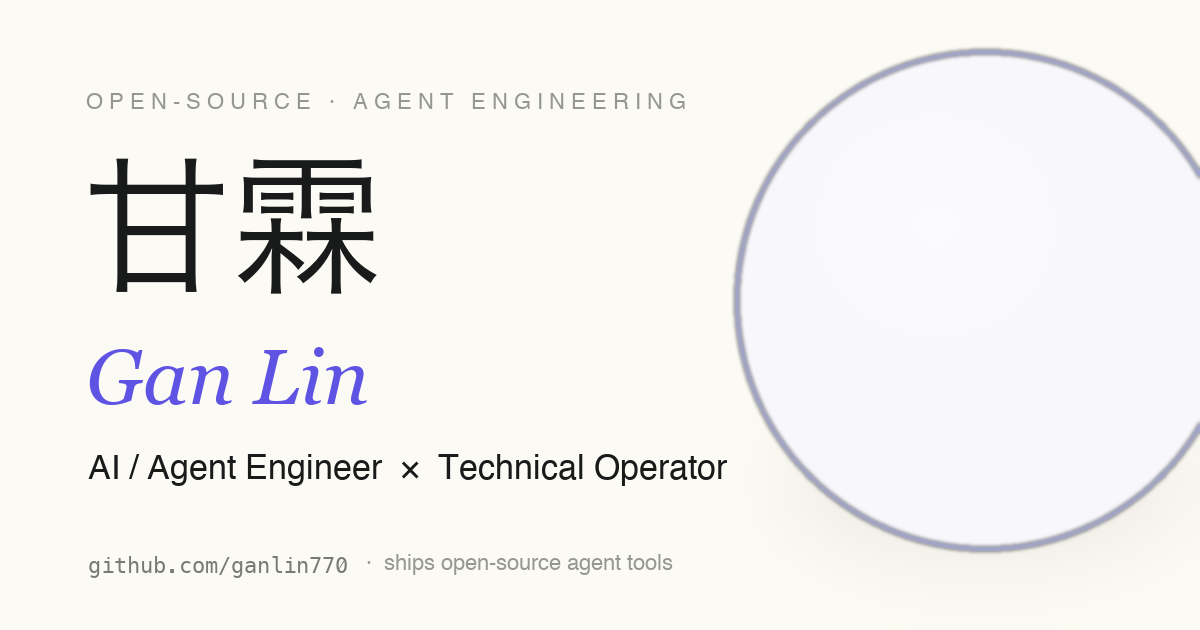
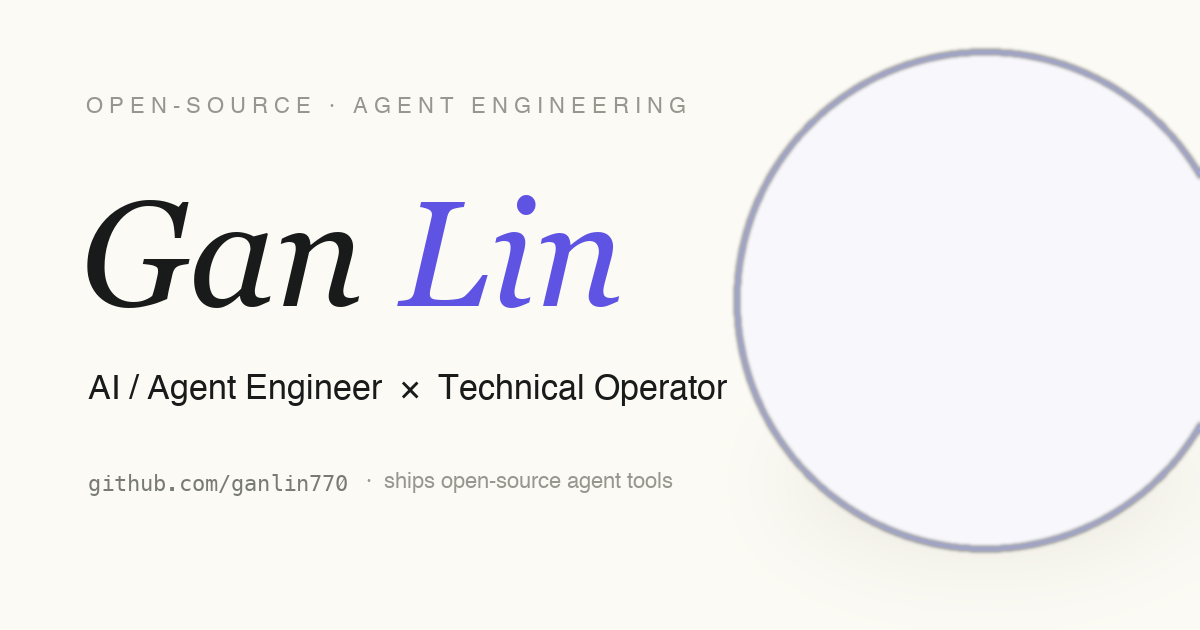
feat: English-only + polish pass
Per request: removed ALL Chinese (bilingual .cn sub-lines, hero CJK name,
section-label accents, footer/nav brand, title/meta/JSON-LD), site is now
fully English. Hero now leads with a large 'Gan Lin' Fraunces serif (retuned
size/tracking/line-height for a single wordmark). Regenerated the OG card
English-only.

Polish (from an audit workflow, applied + verified in-browser): tightened hero
sub + about lead + contact copy for an international dev audience; 'Browse the
code ↗' verb CTA replacing the bare URL; inline <code> chip; SVG-banner/card
seam fix (translucent, hover-tracked, hairline); banner labels -> Space Grotesk;
per-cell capability index accents; de-Chinglished featured-card copy. Light
theme + shader perf budget + 6 SVG diagrams + all github.com/ganlin770 links +
a11y/SEO preserved. Real résumé facts kept.

diff --git a/index.html b/index.html
@@ -3,8 +3,8 @@
 <head>
 <meta charset="UTF-8" />
 <meta name="viewport" content="width=device-width, initial-scale=1.0, viewport-fit=cover" />
-<title>甘霖 · Gan Lin — AI / Agent Engineer × Technical Operator</title>
-<meta name="description" content="甘霖 (Gan Lin) — AI / Agent Engineer & technical operator. I ship open-source agent tools and turn them into content developers trust. LLM eval frameworks, MCP servers, fine-tuned tool routers, full-stack apps — all open-source & reproducible." />
+<title>Gan Lin — AI / Agent Engineer × Technical Operator</title>
+<meta name="description" content="Gan Lin — AI / Agent Engineer & technical operator. I ship open-source agent tools and turn them into content developers trust. LLM eval frameworks, MCP servers, fine-tuned tool routers, full-stack apps — all open-source & reproducible." />
 <meta name="author" content="Gan Lin" />
 <meta name="robots" content="index, follow, max-image-preview:large" />
 <meta name="theme-color" content="#fbfaf4" />
@@ -16,8 +16,8 @@
 
 <!-- Open Graph -->
 <meta property="og:type" content="profile" />
-<meta property="og:site_name" content="Gan Lin · 甘霖" />
-<meta property="og:title" content="甘霖 · Gan Lin — AI / Agent Engineer × Technical Operator" />
+<meta property="og:site_name" content="Gan Lin" />
+<meta property="og:title" content="Gan Lin — AI / Agent Engineer × Technical Operator" />
 <meta property="og:description" content="I ship open-source agent tools — and turn them into content developers trust. LLM eval frameworks, MCP servers, fine-tuned tool routers, full-stack apps. All open-source & reproducible." />
 <meta property="og:url" content="https://ganlin770.github.io/ganlin-site/" />
 <meta property="og:image" content="https://ganlin770.github.io/ganlin-site/og-card.png" />
@@ -25,13 +25,12 @@
 <meta property="og:image:height" content="630" />
 <meta property="og:image:alt" content="Gan Lin — AI / Agent Engineer × Technical Operator" />
 <meta property="og:locale" content="en_US" />
-<meta property="og:locale:alternate" content="zh_CN" />
 <meta property="profile:first_name" content="Lin" />
 <meta property="profile:last_name" content="Gan" />
 <meta property="profile:username" content="ganlin770" />
 <!-- Twitter Card -->
 <meta name="twitter:card" content="summary_large_image" />
-<meta name="twitter:title" content="甘霖 · Gan Lin — AI / Agent Engineer × Technical Operator" />
+<meta name="twitter:title" content="Gan Lin — AI / Agent Engineer × Technical Operator" />
 <meta name="twitter:description" content="I ship open-source agent tools — and turn them into content developers trust. All open-source & reproducible → github.com/ganlin770" />
 <meta name="twitter:image" content="https://ganlin770.github.io/ganlin-site/og-card.png" />
 <meta name="twitter:image:alt" content="Gan Lin — AI / Agent Engineer × Technical Operator" />
@@ -50,7 +49,6 @@
   "@type": "Person",
   "@id": "https://ganlin770.github.io/ganlin-site/#person",
   "name": "Gan Lin",
-  "alternateName": "甘霖",
   "url": "https://ganlin770.github.io/ganlin-site/",
   "jobTitle": "AI / Agent Engineer & Technical Operator",
   "email": "mailto:2379286964@qq.com",
@@ -213,16 +211,13 @@
   .hero .eyebrow{ font-family:"Space Grotesk",sans-serif; font-size:12px; letter-spacing:.42em; text-transform:uppercase;
     color:var(--label); display:flex; align-items:center; gap:14px; }
   .hero .eyebrow::before{ content:""; width:40px; height:1px; background:linear-gradient(90deg,var(--indigo),transparent); flex:none; }
-  .hero h1{ font-family:"Fraunces",serif; font-optical-sizing:auto; font-weight:400; line-height:.86;
-    font-size:clamp(72px, 14vw, 210px); letter-spacing:-.045em; margin:26px 0 6px; margin-left:-.03em; }
-  .hero h1 .cn{ display:block; font-family:"Fraunces","PingFang SC",serif; font-weight:400; color:var(--ink); letter-spacing:0; }
-  .hero h1 .en{ display:block; color:var(--ink);
-    font-style:normal; font-weight:400; font-size:.40em; letter-spacing:-.02em; margin-top:.06em; }
+  .hero h1{ font-family:"Fraunces",serif; font-optical-sizing:auto; font-weight:400; line-height:.94;
+    font-size:clamp(60px, 11vw, 150px); letter-spacing:-.02em; margin:24px 0 14px; margin-left:-.02em; }
+  .hero h1 .en{ color:var(--ink); font-style:normal; font-weight:400; }
   .hero .role{ font-family:"Space Grotesk",sans-serif; font-size:clamp(15px,2.1vw,22px); color:var(--ink);
     font-weight:400; margin-top:30px; letter-spacing:.01em; }
   .hero .role b{ font-weight:500; }
-  .hero .sub{ max-width:540px; color:var(--dim); font-size:clamp(14.5px,1.6vw,17px); margin-top:18px; }
-  .hero .sub .cn{ display:block; color:var(--faint); font-size:.92em; margin-top:8px; letter-spacing:0; }
+  .hero .sub{ max-width:46ch; color:var(--dim); font-size:clamp(15px,1.7vw,18px); line-height:1.62; margin-top:22px; }
   .hero .cta-row{ display:flex; gap:16px; margin-top:42px; flex-wrap:wrap; }
   .btn{ display:inline-flex; align-items:center; gap:10px; padding:14px 26px; border-radius:99px; font-size:14.5px;
     font-weight:500; transition:background .35s var(--ease-out), border-color .35s, box-shadow .35s, color .35s;
@@ -255,15 +250,14 @@
   .sec-num{ font-family:"Space Grotesk",sans-serif; font-size:12px; color:var(--label);
     letter-spacing:.32em; text-transform:uppercase; }
   .sec-title{ font-family:"Fraunces",serif; font-optical-sizing:auto; font-weight:400; font-size:clamp(34px,5.2vw,60px); line-height:1.02; letter-spacing:-.03em; color:var(--ink); }
-  .sec-title .cn{ font-family:"Fraunces","PingFang SC",serif; color:var(--faint); font-size:.4em; font-style:normal; margin-left:14px; letter-spacing:0; }
 
   /* ---------- about ---------- */
   .about-grid{ display:grid; grid-template-columns:1.55fr .9fr; gap:clamp(48px,7vw,96px); align-items:start; }
   .about-lead{ font-family:"Fraunces",serif; font-optical-sizing:auto; font-weight:300; font-size:clamp(22px,2.8vw,32px); line-height:1.4; letter-spacing:-.015em; color:var(--ink); max-width:24ch; }
   .about-lead .hl{ color:var(--indigo); -webkit-text-fill-color:var(--indigo); font-style:italic; }
-  .about-body{ color:var(--dim); font-size:15.5px; line-height:1.7; letter-spacing:.005em; max-width:66ch; }
+  .about-body{ color:var(--dim); font-size:16px; line-height:1.78; letter-spacing:.005em; max-width:62ch; }
   .about-body p{ margin-bottom:16px; }
-  .about-body .cn{ color:var(--faint); font-size:14.5px; }
+  .about-body p:last-child{ margin-bottom:0; }
   .stats{ display:grid; grid-template-columns:1fr 1fr; gap:1px; margin-top:14px; background:var(--line-2);
     border:1px solid var(--line-2); border-radius:16px; overflow:hidden; }
   .stat{ background:rgba(255,255,255,.5); padding:26px 22px; }
@@ -274,7 +268,7 @@
   .work-grid{ display:grid; grid-template-columns:repeat(2,1fr); gap:24px; }
   .card{ position:relative; border:1px solid var(--line); border-radius:20px; padding:30px 30px 26px;
     background:var(--glass); box-shadow:var(--card-sh); overflow:hidden; transition:transform .5s var(--ease-out), border-color .5s, background .5s, box-shadow .5s;
-    display:flex; flex-direction:column; min-height:230px; }
+    display:flex; flex-direction:column; min-height:200px; }
   .card::before{ content:""; position:absolute; inset:0; border-radius:20px; padding:1px; opacity:0; transition:opacity .5s;
     background:linear-gradient(130deg,var(--peri),var(--sky),transparent 60%);
     -webkit-mask:linear-gradient(#000 0 0) content-box,linear-gradient(#000 0 0); -webkit-mask-composite:xor; mask-composite:exclude; }
@@ -287,17 +281,19 @@
   .card .ct-name{ font-family:"Space Grotesk",sans-serif; font-size:19px; font-weight:500; color:var(--ink); margin:0; }
   .card .ct-link{ font-size:12px; color:var(--faint); display:inline-flex; gap:6px; align-items:center; transition:color .3s; }
   .card:hover .ct-link{ color:var(--indigo); }
-  .card .ct-desc{ color:var(--dim); font-size:14px; margin-top:14px; flex:1; }
-  .card .ct-desc .cn{ display:block; color:var(--faint); font-size:13px; margin-top:7px; }
+  .card .ct-desc{ color:var(--dim); font-size:14px; line-height:1.62; margin-top:14px; flex:1; }
   .card .ct-desc b{ color:var(--ink); font-weight:600; }
+  .ct-desc code, .about-body code{ font-family:"Space Grotesk",ui-monospace,monospace; font-size:.86em; color:var(--indigo); background:rgba(94,83,227,.07); border:1px solid rgba(94,83,227,.16); border-radius:6px; padding:.06em .42em; letter-spacing:0; white-space:nowrap; }
   .card .tags{ display:flex; flex-wrap:wrap; gap:7px; margin-top:18px; }
   .tag{ font-family:"Space Grotesk",sans-serif; font-size:11px; color:var(--dim); border:1px solid var(--line);
     border-radius:99px; padding:3px 11px; letter-spacing:.02em; }
   .card.feat{ grid-column:span 2; min-height:auto; }
   .card.feat .ct-name{ font-size:22px; }
   /* ---- static inline-SVG technical banners (no per-frame JS, no animated filters/blurs) ---- */
-  .card .vbanner{ display:block; width:calc(100% + 60px); margin:-30px -30px 20px; border-radius:20px 20px 0 0; background:#fbfaf4; height:auto; }
+  .card .vbanner{ display:block; width:calc(100% + 60px); margin:-30px -30px 20px; border-radius:20px 20px 0 0; background:var(--glass); border-bottom:1px solid var(--line-2); box-shadow:inset 0 -1px 0 rgba(255,255,255,.5); height:auto; transition:background .5s; }
+  .card:hover .vbanner{ background:var(--glass-2); }
   .card.feat .vbanner{ margin:-30px -30px 22px; }
+  .vbanner svg text{ font-family:"Space Grotesk",ui-monospace,monospace !important; }
   .varch{ display:block; width:100%; height:auto; margin:8px 0 28px; background:#fbfaf4; border-radius:16px; }
   @media (max-width:860px){ .varch{ margin:4px 0 20px; } }
   .repo-note{ text-align:center; margin-top:40px; color:var(--faint); font-size:13.5px; }
@@ -308,16 +304,15 @@
 
   /* ---------- capabilities (open cells + top-rules, rotating pastel index) ---------- */
   .cap-grid{ display:grid; grid-template-columns:repeat(3,1fr); gap:clamp(2px,1.2vw,22px); }
-  .cap{ background:rgba(255,255,255,.5); padding:30px 26px 28px; border-radius:14px;
+  .cap{ background:rgba(255,255,255,.5); padding:32px 28px 30px; border-radius:14px;
     border-top:2px solid var(--cap-acc,var(--line)); transition:background .4s, transform .4s var(--ease-out); }
   .cap:hover{ background:var(--bg-2); transform:translateY(-3px); }
   .cap:nth-child(1){ --cap-acc:var(--mint); } .cap:nth-child(2){ --cap-acc:var(--sky); }
   .cap:nth-child(3){ --cap-acc:var(--peri); } .cap:nth-child(4){ --cap-acc:var(--coral); }
   .cap:nth-child(5){ --cap-acc:var(--gold); } .cap:nth-child(6){ --cap-acc:var(--indigo); }
-  .cap .ci{ font-family:"Space Grotesk",sans-serif; font-size:12px; color:var(--indigo); letter-spacing:.1em; }
-  .cap .ch{ font-size:17px; font-weight:500; margin:10px 0 6px; color:var(--ink); }
-  .cap .ch .cn{ color:var(--faint); font-weight:400; font-size:13px; }
-  .cap .cl{ color:var(--dim); font-size:13.5px; line-height:1.6; }
+  .cap .ci{ font-family:"Space Grotesk",sans-serif; font-size:12px; color:var(--cap-acc,var(--indigo)); letter-spacing:.1em; filter:saturate(1.15) brightness(.82); }
+  .cap .ch{ font-size:17px; font-weight:500; margin:12px 0 8px; color:var(--ink); }
+  .cap .cl{ color:var(--dim); font-size:13.5px; line-height:1.65; }
   .cap .cl b{ color:var(--ink); font-weight:500; }
 
   /* ---------- contact ---------- */
@@ -413,7 +408,7 @@
 <a href="#main" class="skip">Skip to content</a>
 
 <div id="intro" aria-hidden="true">
-  <span class="iwords"><span class="il" lang="zh-CN">甘霖</span><span class="il">GAN LIN</span></span>
+  <span class="iwords"><span class="il">GAN LIN</span></span>
   <span class="irule"></span>
 </div>
 
@@ -422,7 +417,7 @@
 <div class="cur" aria-hidden="true"></div><div class="cur-d" aria-hidden="true"></div>
 
 <nav id="nav" aria-label="Primary">
-  <a href="#top" class="brand"><span class="dot" aria-hidden="true"></span><b>GAN&nbsp;LIN</b>&nbsp;<span lang="zh-CN">甘霖</span></a>
+  <a href="#top" class="brand"><span class="dot" aria-hidden="true"></span><b>GAN&nbsp;LIN</b></a>
   <div class="nav-links" id="navlinks">
     <a href="#about">About</a>
     <a href="#work">Work</a>
@@ -437,18 +432,14 @@
 <header class="hero" id="top">
   <div class="wrap">
     <div class="eyebrow reveal">Open-source · Agent Engineering · Content Growth</div>
-    <h1 class="reveal d1">
-      <span class="cn" lang="zh-CN">甘霖</span>
-      <span class="en">Gan&nbsp;Lin</span>
-    </h1>
+    <h1 class="reveal d1"><span class="en">Gan&nbsp;Lin</span></h1>
     <div class="role reveal d2"><b>AI / Agent Engineer</b> &nbsp;×&nbsp; <b>Technical Operator</b></div>
     <div class="sub reveal d2">
-      I ship open-source agent tools — and turn them into content developers trust. Everything's open-source and reproducible: click any project and run it.
-      <span class="cn" lang="zh-CN">既能做出开源 Agent 工具，又能把它们讲成开发者信得过的内容。所有作品开源、可点开复现。</span>
+      I ship open-source agent tools — and turn them into developer content people actually trust. Every project on this page is open-source: click it, read it, run it.
     </div>
     <div class="cta-row reveal d3">
       <a href="#work" class="btn solid mag">View Work <span class="arr" aria-hidden="true">↗</span></a>
-      <a href="https://github.com/ganlin770" target="_blank" rel="noopener" class="btn ghost mag">github.com/ganlin770<span class="vh">(opens in new tab)</span></a>
+      <a href="https://github.com/ganlin770" target="_blank" rel="noopener" class="btn ghost mag">Browse the code ↗<span class="vh">(opens in new tab)</span></a>
     </div>
   </div>
   <div class="scroll-hint" aria-hidden="true"><span>Scroll</span><span class="line"></span></div>
@@ -459,14 +450,13 @@
   <!-- ABOUT -->
   <section class="panel" id="about" aria-labelledby="about-h">
     <div class="wrap">
-      <div class="sec-head reveal"><span class="sec-num" aria-hidden="true">01</span><h2 id="about-h" class="sec-title">About<span class="cn" lang="zh-CN">关于</span></h2></div>
+      <div class="sec-head reveal"><span class="sec-num" aria-hidden="true">01</span><h2 id="about-h" class="sec-title">About</h2></div>
       <div class="reveal"><svg class="varch" viewBox="0 0 840 220" role="img" aria-labelledby="aa-t aa-d" xmlns="http://www.w3.org/2000/svg" preserveAspectRatio="xMidYMid meet"><title id="aa-t">Engineered agent loop architecture</title><desc id="aa-d">An agent loop: a tool call is validated; on success it returns, on failure it routes to an auto-repair retry that loops back, and after exhausted retries it falls back to a frontier model. Every step writes to a JSONL log and monitoring sink.</desc><rect x="0.75" y="0.75" width="838.5" height="218.5" rx="16" fill="#fbfaf4" stroke="#191b1b" stroke-opacity=".12"/><line x1="28" y1="40" x2="812" y2="40" stroke="#191b1b" stroke-opacity=".10"/><g font-family="'Space Grotesk',ui-monospace,monospace" fill="#767972"><text x="28" y="30" font-size="11.5" letter-spacing="2">ENGINEERED AGENT LOOP</text><text x="812" y="30" font-size="10.5" text-anchor="end" letter-spacing="1.5">validate · repair · fallback · log</text></g><g font-family="'Space Grotesk',monospace"><g transform="translate(28 78)"><rect x="0.75" y="0.75" width="118.5" height="48.5" rx="11" fill="#afb6ff" fill-opacity=".14" stroke="#5e53e3" stroke-opacity=".55" stroke-width="1.5"/><text x="60" y="22" text-anchor="middle" font-size="12" fill="#191b1b" font-weight="600">tool call</text><text x="60" y="37" text-anchor="middle" font-size="8.5" fill="#5e53e3">agent action</text></g><g transform="translate(214 102)"><path d="M 0 0 L 42 -36 L 84 0 L 42 36 Z" fill="#8dcbff" fill-opacity=".14" stroke="#0077bc" stroke-opacity=".55" stroke-width="1.5"/><text x="42" y="-2" text-anchor="middle" font-size="11" fill="#191b1b" font-weight="600">validate</text><text x="42" y="11" text-anchor="middle" font-size="8" fill="#0077bc">output ok?</text></g><g transform="translate(360 78)"><rect x="0.75" y="0.75" width="118.5" height="48.5" rx="11" fill="#80daac" fill-opacity=".16" stroke="#00784a" stroke-opacity=".55" stroke-width="1.5"/><text x="60" y="22" text-anchor="middle" font-size="12" fill="#191b1b" font-weight="600">return ✓</text><text x="60" y="37" text-anchor="middle" font-size="8.5" fill="#00784a">validated result</text></g><g transform="translate(360 150)"><rect x="0.75" y="0.75" width="118.5" height="44.5" rx="11" fill="#ebc669" fill-opacity=".20" stroke="#191b1b" stroke-opacity=".4" stroke-width="1.5"/><text x="60" y="20" text-anchor="middle" font-size="11" fill="#191b1b" font-weight="600">repair-retry</text><text x="60" y="34" text-anchor="middle" font-size="8" fill="#5f625c">auto-fix · re-run</text></g><g transform="translate(560 150)"><rect x="0.75" y="0.75" width="128.5" height="44.5" rx="11" fill="#ffa3a3" fill-opacity=".18" stroke="#c0434c" stroke-opacity=".5" stroke-width="1.5"/><text x="65" y="20" text-anchor="middle" font-size="11" fill="#191b1b" font-weight="600">frontier fallback</text><text x="65" y="34" text-anchor="middle" font-size="8" fill="#c0434c">retries exhausted</text></g><g transform="translate(560 60)"><rect x="0.75" y="0.75" width="250.5" height="64.5" rx="11" fill="#5e53e3" fill-opacity=".07" stroke="#5e53e3" stroke-opacity=".4" stroke-width="1.5"/><text x="16" y="24" font-size="11.5" fill="#191b1b" font-weight="600">JSONL log + monitor</text><g stroke="#5e53e3" stroke-opacity=".55" stroke-width="1.5"><line x1="16" y1="38" x2="150" y2="38"/><line x1="16" y1="46" x2="170" y2="46"/><line x1="16" y1="54" x2="120" y2="54"/></g><text x="234" y="56" text-anchor="end" font-size="8" fill="#5e53e3">every step →</text></g></g><g stroke="#191b1b" stroke-width="1.5" fill="none"><g stroke-opacity=".45"><path d="M 148 102 H 212"/><path d="M 206 97 L 212 102 L 206 107"/></g><g stroke-opacity=".45"><path d="M 298 96 C 330 90 332 102 358 102"/><path d="M 352 97 L 358 102 L 352 107"/></g><g stroke-opacity=".45"><path d="M 298 122 C 330 134 332 172 358 172"/><path d="M 352 167 L 358 172 L 352 177"/></g><g stroke="#ebc669" stroke-opacity=".8"><path d="M 360 188 C 200 210 70 196 70 132"/><path d="M 65 138 L 70 131 L 75 138"/></g><g stroke-opacity=".45"><path d="M 480 172 H 558"/><path d="M 552 167 L 558 172 L 552 177"/></g><g stroke-opacity=".3" stroke-dasharray="3 4"><path d="M 624 148 C 624 110 540 104 480 102"/><path d="M 486 97 L 480 102 L 486 107"/></g></g><g font-family="'Space Grotesk',monospace" font-size="8.5"><text x="322" y="88" fill="#00784a">pass</text><text x="318" y="150" fill="#c0434c">fail</text><text x="150" y="160" fill="#ebc669">retry loop</text></g><g stroke="#5e53e3" stroke-opacity=".22" stroke-width="1.2" stroke-dasharray="2 4" fill="none"><path d="M 88 78 V 60 H 560"/><path d="M 419 78 V 70"/><path d="M 419 150 V 132 H 560"/><path d="M 625 150 V 126"/></g></svg></div>
       <div class="about-grid">
         <div>
-          <p class="about-lead reveal">A 2026 graduate, self-taught into AI engineering — building the rare overlap of <span class="hl">shipping agent tools</span> and <span class="hl">growing the audience</span> that uses them.</p>
-          <div class="about-body" style="margin-top:30px;">
+          <p class="about-lead reveal">Self-taught AI engineer, class of 2026 — working the rare seam between <span class="hl">shipping agent tools</span> and <span class="hl">building the developer audience</span> around them.</p>
+          <div class="about-body" style="margin-top:34px;">
             <p class="reveal d1">I write LLM eval frameworks from scratch (rule × LLM-as-judge, CI gates, JSONL audit), fine-tune small models into tool-calling routers with PEFT/TRL, and build full-stack apps with Claude Code, Cursor &amp; Codex — then run English dev content across TikTok / X / IG. Because I ship the tools myself, the developer content I make actually holds technical weight.</p>
-            <p class="reveal d2"><span class="cn" lang="zh-CN">懂代码的技术型运营 × 能造工具的 Agent 工程师。从零写 LLM 评测框架、把 0.5B 小模型 LoRA 调成工具路由器、用 AI 编程做全栈并部署上线；同时运营海外英文号。最大的差异化：同一个人既造工具，又能把工具讲成开发者信得过的内容。</span></p>
           </div>
         </div>
         <div class="reveal d1">
@@ -474,23 +464,23 @@
             <div class="stat"><div class="n">70+</div><div class="l">Claude Code Skills</div></div>
             <div class="stat"><div class="n">20+</div><div class="l">MCP Servers</div></div>
             <div class="stat"><div class="n">5</div><div class="l">Open-source projects</div></div>
-            <div class="stat"><div class="n">100%</div><div class="l" lang="zh-CN">开源可点开复现</div></div>
+            <div class="stat"><div class="n">100%</div><div class="l">Open-source &amp; reproducible</div></div>
           </div>
           <dl style="margin-top:24px;display:grid;grid-template-columns:auto 1fr;column-gap:18px;row-gap:14px;font-size:13.5px;line-height:1.5;">
             <dt style="font-family:'Space Grotesk',sans-serif;font-size:11px;letter-spacing:.16em;text-transform:uppercase;color:var(--label);padding-top:2px;">Focus</dt>
             <dd style="color:var(--dim);margin:0;">LLM eval &amp; reliability · Agent / MCP engineering · applied model fine-tuning (PEFT/LoRA) · full-stack &amp; deploy.
-              <span class="cn" lang="zh-CN" style="display:block;color:var(--faint);font-size:13px;margin-top:5px;">评测与可靠性 · Agent / MCP 工程 · 模型微调（应用层）· 全栈与部署</span></dd>
+              </dd>
 
             <dt style="font-family:'Space Grotesk',sans-serif;font-size:11px;letter-spacing:.16em;text-transform:uppercase;color:var(--label);padding-top:2px;">Stack</dt>
             <dd style="color:var(--dim);margin:0;">Python / FastAPI · Node / TypeScript · React / Next.js · Claude Code · Cursor · Codex · Vercel / Zeabur.</dd>
 
             <dt style="font-family:'Space Grotesk',sans-serif;font-size:11px;letter-spacing:.16em;text-transform:uppercase;color:var(--label);padding-top:2px;">Build</dt>
             <dd style="color:var(--dim);margin:0;"><b style="color:var(--ink);font-weight:500;">promptlab</b> · <b style="color:var(--ink);font-weight:500;">tool-smith</b> · <b style="color:var(--ink);font-weight:500;">thesis-generator</b> · <b style="color:var(--ink);font-weight:500;">matlab-viz-mcp</b> · <b style="color:var(--ink);font-weight:500;">paper-search-server</b> — from idea to production.
-              <span class="cn" lang="zh-CN" style="display:block;color:var(--faint);font-size:13px;margin-top:5px;">从想法到上线交付</span></dd>
+              </dd>
 
             <dt style="font-family:'Space Grotesk',sans-serif;font-size:11px;letter-spacing:.16em;text-transform:uppercase;color:var(--label);padding-top:2px;">Open</dt>
             <dd style="color:var(--dim);margin:0;">Everything open-source &amp; reproducible at <span style="color:var(--ink);">github.com/ganlin770</span>. English is a working language.
-              <span class="cn" lang="zh-CN" style="display:block;color:var(--faint);font-size:13px;margin-top:5px;">作品全部开源、可点开复现；英文为工作语言</span></dd>
+              </dd>
           </dl>
         </div>
       </div>
@@ -500,7 +490,7 @@
   <!-- WORK -->
   <section class="panel" id="work" aria-labelledby="work-h">
     <div class="wrap">
-      <div class="sec-head reveal"><span class="sec-num" aria-hidden="true">02</span><h2 id="work-h" class="sec-title">Selected Work<span class="cn" lang="zh-CN">精选作品</span></h2></div>
+      <div class="sec-head reveal"><span class="sec-num" aria-hidden="true">02</span><h2 id="work-h" class="sec-title">Selected Work</h2></div>
       <div class="work-grid">
 
         <a class="card reveal" href="https://github.com/ganlin770/promptlab" target="_blank" rel="noopener" aria-label="promptlab on GitHub, opens in new tab">
@@ -550,7 +540,7 @@
 </svg></div>
           <div class="ct-top"><h3 class="ct-name">promptlab</h3><span class="ct-link"><span aria-hidden="true">GitHub ↗</span></span></div>
           <div class="ct-desc">From-scratch LLM eval framework — rule × LLM-as-judge engine, HTML reports + JSONL audit, wired into a CI gate (<code>--min-pass-rate</code>) for regression control.
-            <span class="cn" lang="zh-CN">把「评测」当一等公民：用可复现指标证明 agent 行为，离线 mock 可跑、pytest 覆盖。</span></div>
+            </div>
           <div class="tags"><span class="tag">Python</span><span class="tag">LLM-as-judge</span><span class="tag">CI gate</span><span class="tag">eval</span></div>
         </a>
 
@@ -602,7 +592,7 @@
 </svg></div>
           <div class="ct-top"><h3 class="ct-name">tool-smith</h3><span class="ct-link"><span aria-hidden="true">GitHub ↗</span></span></div>
           <div class="ct-desc">Fine-tuned Qwen2.5-0.5B into a tool-calling router (PEFT + TRL, LoRA/SFT) — <b>fully-correct tool calls 4.1% → 74.2%, hard cases 0 → 76.7%</b> on a self-built base-vs-tuned eval. Wrapped in an engineered agent loop: validate → auto-repair retry → frontier fallback → full JSONL logging.
-            <span class="cn" lang="zh-CN">自建 base-vs-tuned 评测：完全正确 4.1%→74.2%，难例 0→76.7%，loss 4.3→0.35。</span></div>
+            </div>
           <div class="tags"><span class="tag">PEFT/TRL</span><span class="tag">LoRA</span><span class="tag">FastMCP</span><span class="tag">agent loop</span></div>
         </a>
 
@@ -651,7 +641,7 @@
 </svg></div>
           <div class="ct-top"><h3 class="ct-name">thesis-generator</h3><span class="ct-link"><span aria-hidden="true">GitHub ↗</span></span></div>
           <div class="ct-desc">A full-stack LLM app shipped to production — 8-stage pipeline on FastAPI with SSE live progress, Claude API + python-docx, deployed on Zeabur.
-            <span class="cn" lang="zh-CN">从一个想法独立交付上线，端到端全栈流水线。</span></div>
+            </div>
           <div class="tags"><span class="tag">FastAPI</span><span class="tag">Claude API</span><span class="tag">SSE</span><span class="tag">deploy</span></div>
         </a>
 
@@ -692,8 +682,8 @@
 <text x="170" y="78" font-family="monospace" font-size="9" fill="#51544f" letter-spacing="0.6">Model Context Protocol</text>
 </svg></div>
           <div class="ct-top"><h3 class="ct-name">matlab-viz-mcp</h3><span class="ct-link"><span aria-hidden="true">GitHub ↗</span></span></div>
-          <div class="ct-desc">An MCP server that lets LLMs generate MATLAB visualizations through the Model Context Protocol.
-            <span class="cn" lang="zh-CN">代表性 MCP 节点，Node MCP SDK 实现。</span></div>
+          <div class="ct-desc">An MCP server that hands LLMs a MATLAB visualization toolbelt — generate, run, and return plots over a clean tool-calling interface.
+            </div>
           <div class="tags"><span class="tag">TypeScript</span><span class="tag">MCP SDK</span><span class="tag">tool calling</span></div>
         </a>
 
@@ -741,8 +731,8 @@
 </g>
 </svg></div>
           <div class="ct-top"><h3 class="ct-name">AIGC content pipeline &amp; the 70+ skill matrix</h3><span class="ct-link"><span aria-hidden="true">GitHub ↗</span></span></div>
-          <div class="ct-desc">An end-to-end production line — script → visuals → cloned-voice TTS (MiniMax / ElevenLabs / F5-TTS) → ffmpeg mux → subtitle QA — driving bilingual dev content across TikTok / X / IG and 小红书 / 抖音 / B站 — <b>1000+ niche-precise followers</b> across platforms. Built on a self-made matrix of 70+ Claude Code Skills &amp; 20+ MCP Servers, including <b>paper-search-server</b> (Scopus search over Flask).
-            <span class="cn" lang="zh-CN">技术可信度驱动的开发者增长：自建生产线支撑日更，全平台合计垂类精准粉丝 1000+，跑通 选题→生产→分发→复盘→付费 闭环。</span></div>
+          <div class="ct-desc">An end-to-end production line — script → visuals → cloned-voice TTS (MiniMax / ElevenLabs / F5-TTS) → ffmpeg mux → subtitle QA — driving bilingual dev content across TikTok / X / IG and Xiaohongshu / Douyin / Bilibili — <b>1000+ targeted developer followers</b> across platforms. Built on a self-made matrix of 70+ Claude Code Skills &amp; 20+ MCP Servers, including <b>paper-search-server</b> (Scopus search over Flask).
+            </div>
           <div class="tags"><span class="tag">TTS clone</span><span class="tag">Remotion</span><span class="tag">ffmpeg</span><span class="tag">multi-agent fan-out</span><span class="tag">DevRel</span></div>
         </a>
 
@@ -754,14 +744,14 @@
   <!-- CAPABILITIES -->
   <section class="panel" id="capabilities" aria-labelledby="cap-h">
     <div class="wrap">
-      <div class="sec-head reveal"><span class="sec-num" aria-hidden="true">03</span><h2 id="cap-h" class="sec-title">Capabilities<span class="cn" lang="zh-CN">能力</span></h2></div>
+      <div class="sec-head reveal"><span class="sec-num" aria-hidden="true">03</span><h2 id="cap-h" class="sec-title">Capabilities</h2></div>
       <div class="cap-grid">
-        <div class="cap reveal"><div class="ci" aria-hidden="true">A1</div><h3 class="ch">LLM Eval / Reliability <span class="cn" lang="zh-CN">评测与可靠性</span></h3><div class="cl"><b>Rule × LLM-as-judge</b> hybrid, CI gate + JSONL audit + HTML reports, failure recovery (validate / repair-retry / frontier fallback), self-built observability.</div></div>
-        <div class="cap reveal d1"><div class="ci" aria-hidden="true">A2</div><h3 class="ch">MCP / Agent Engineering <span class="cn" lang="zh-CN">Agent 工程</span></h3><div class="cl"><b>Tool calling</b>, context &amp; memory (RAG), multi-agent fan-out. 20+ MCP Servers (Node MCP SDK / Python FastMCP) · 70+ Claude Code Skills.</div></div>
-        <div class="cap reveal d2"><div class="ci" aria-hidden="true">A3</div><h3 class="ch">Model Fine-tuning <span class="cn" lang="zh-CN">模型微调 · 应用层</span></h3><div class="cl"><b>PEFT + TRL · LoRA / SFT</b> on Apple Silicon / MPS — Qwen2.5-0.5B tool router (rank 16). Applied engineering, not algorithm research.</div></div>
-        <div class="cap reveal"><div class="ci" aria-hidden="true">A4</div><h3 class="ch">Full-stack &amp; Deploy <span class="cn" lang="zh-CN">全栈与部署</span></h3><div class="cl"><b>Python / FastAPI</b>, Node / TypeScript, React / Next.js, ship to Vercel / Zeabur. Idea → production, solo.</div></div>
-        <div class="cap reveal d1"><div class="ci" aria-hidden="true">A5</div><h3 class="ch">AI Coding <span class="cn" lang="zh-CN">AI 编程左右手</span></h3><div class="cl"><b>Claude Code · Cursor · Codex</b> as daily drivers — read open-source code, reproduce, and ship.</div></div>
-        <div class="cap reveal d2"><div class="ci" aria-hidden="true">A6</div><h3 class="ch">Content Growth / AIGC <span class="cn" lang="zh-CN">内容增长</span></h3><div class="cl"><b>TikTok / X / IG</b> (English), TTS cloning, Remotion, ffmpeg. Plus applied data-analysis &amp; modeling with real paying clients.</div></div>
+        <div class="cap reveal"><div class="ci" aria-hidden="true">A1</div><h3 class="ch">LLM Eval / Reliability</h3><div class="cl"><b>Rule × LLM-as-judge</b> hybrid, CI gate + JSONL audit + HTML reports, failure recovery (validate / repair-retry / frontier fallback), self-built observability.</div></div>
+        <div class="cap reveal d1"><div class="ci" aria-hidden="true">A2</div><h3 class="ch">MCP / Agent Engineering</h3><div class="cl"><b>Tool calling</b>, context &amp; memory (RAG), multi-agent fan-out. 20+ MCP Servers (Node MCP SDK / Python FastMCP) · 70+ Claude Code Skills.</div></div>
+        <div class="cap reveal d2"><div class="ci" aria-hidden="true">A3</div><h3 class="ch">Model Fine-tuning</h3><div class="cl"><b>PEFT + TRL · LoRA / SFT</b> on Apple Silicon / MPS — Qwen2.5-0.5B tool router (rank 16). Applied engineering, not algorithm research.</div></div>
+        <div class="cap reveal"><div class="ci" aria-hidden="true">A4</div><h3 class="ch">Full-stack &amp; Deploy</h3><div class="cl"><b>Python / FastAPI</b>, Node / TypeScript, React / Next.js, ship to Vercel / Zeabur. Idea → production, solo.</div></div>
+        <div class="cap reveal d1"><div class="ci" aria-hidden="true">A5</div><h3 class="ch">AI Coding</h3><div class="cl"><b>Claude Code · Cursor · Codex</b> as daily drivers — read open-source code, reproduce, and ship.</div></div>
+        <div class="cap reveal d2"><div class="ci" aria-hidden="true">A6</div><h3 class="ch">Content Growth / AIGC</h3><div class="cl"><b>TikTok / X / IG</b> (English), TTS cloning, Remotion, ffmpeg. Plus applied data-analysis &amp; modeling with real paying clients.</div></div>
       </div>
     </div>
   </section>
@@ -772,7 +762,7 @@
       <div class="contact-card reveal">
         <div class="glow" aria-hidden="true"></div>
         <h2 id="contact-h" class="contact-h">Let's build something <span class="it">that ships.</span></h2>
-        <p>Building agent tools and the dev content that earns trust in them. Open to AI / Agent engineering &amp; technical DevRel roles — internship or junior, remote-first. <span style="display:block;color:var(--faint);margin-top:6px;" lang="zh-CN">在做 Agent 工具，也在做让开发者信得过的技术内容。开放 AI/Agent 工程 · 技术型 DevRel 机会，远程优先，可线下面谈。</span></p>
+        <p>Open to AI / Agent engineering and technical DevRel roles — internship or junior, remote-first. I build the tools and the developer content that earns trust in them, so I can ship product and speak to the people who use it. </p>
         <div class="contact-row">
           <a class="clink mag" href="mailto:2379286964@qq.com?subject=AI%2FAgent%20role"><span aria-hidden="true">✉</span> Email me — 2379286964@qq.com</a>
           <a class="clink mag" href="https://github.com/ganlin770" target="_blank" rel="noopener"><span aria-hidden="true">⌘</span> See the code — github.com/ganlin770<span class="vh">(opens in new tab)</span></a>
@@ -784,7 +774,7 @@
 </main>
 
 <footer>
-  <span class="brand"><span class="dot" aria-hidden="true"></span><span lang="zh-CN">甘霖</span> · GAN LIN</span>
+  <span class="brand"><span class="dot" aria-hidden="true"></span>GAN LIN</span>
   <span>© 2026 — Designed &amp; built with WebGL. Cream field × refractive thin-film glass, hand-written shaders.</span>
 </footer>
 
